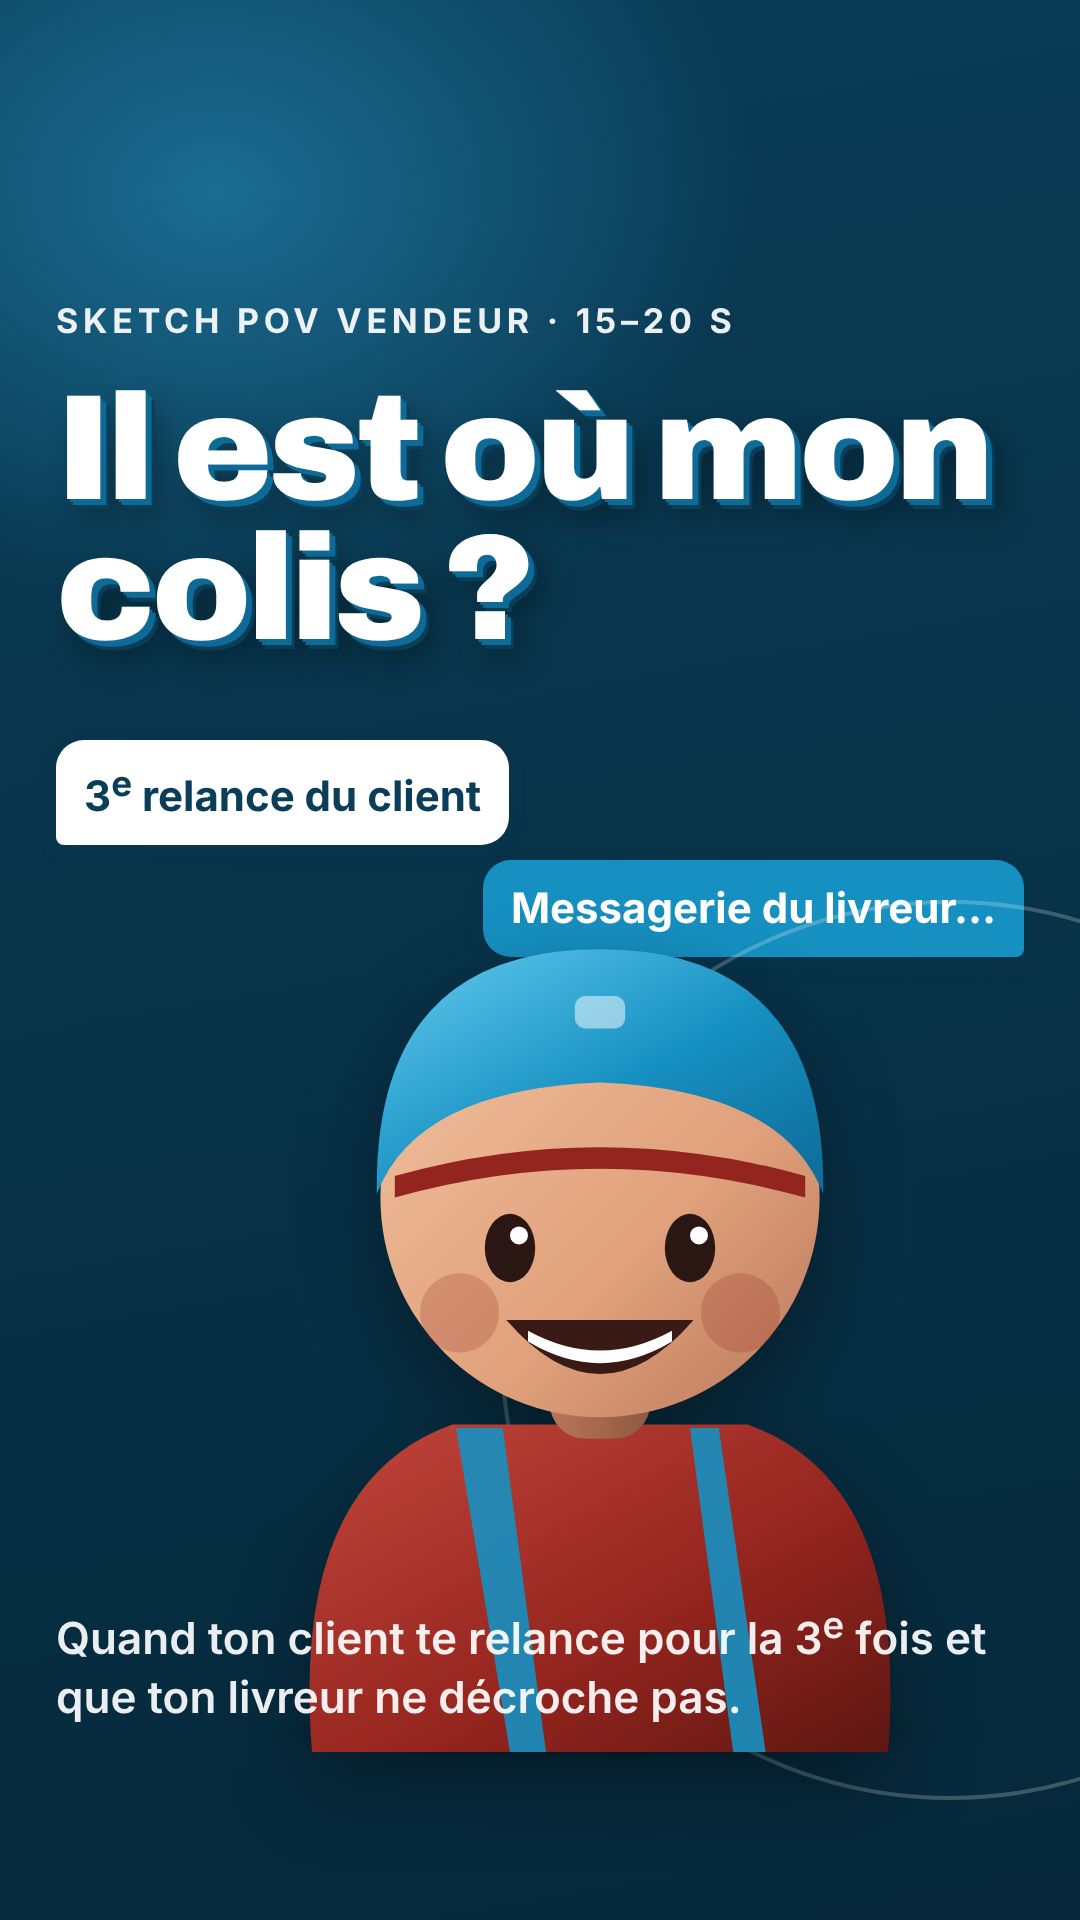
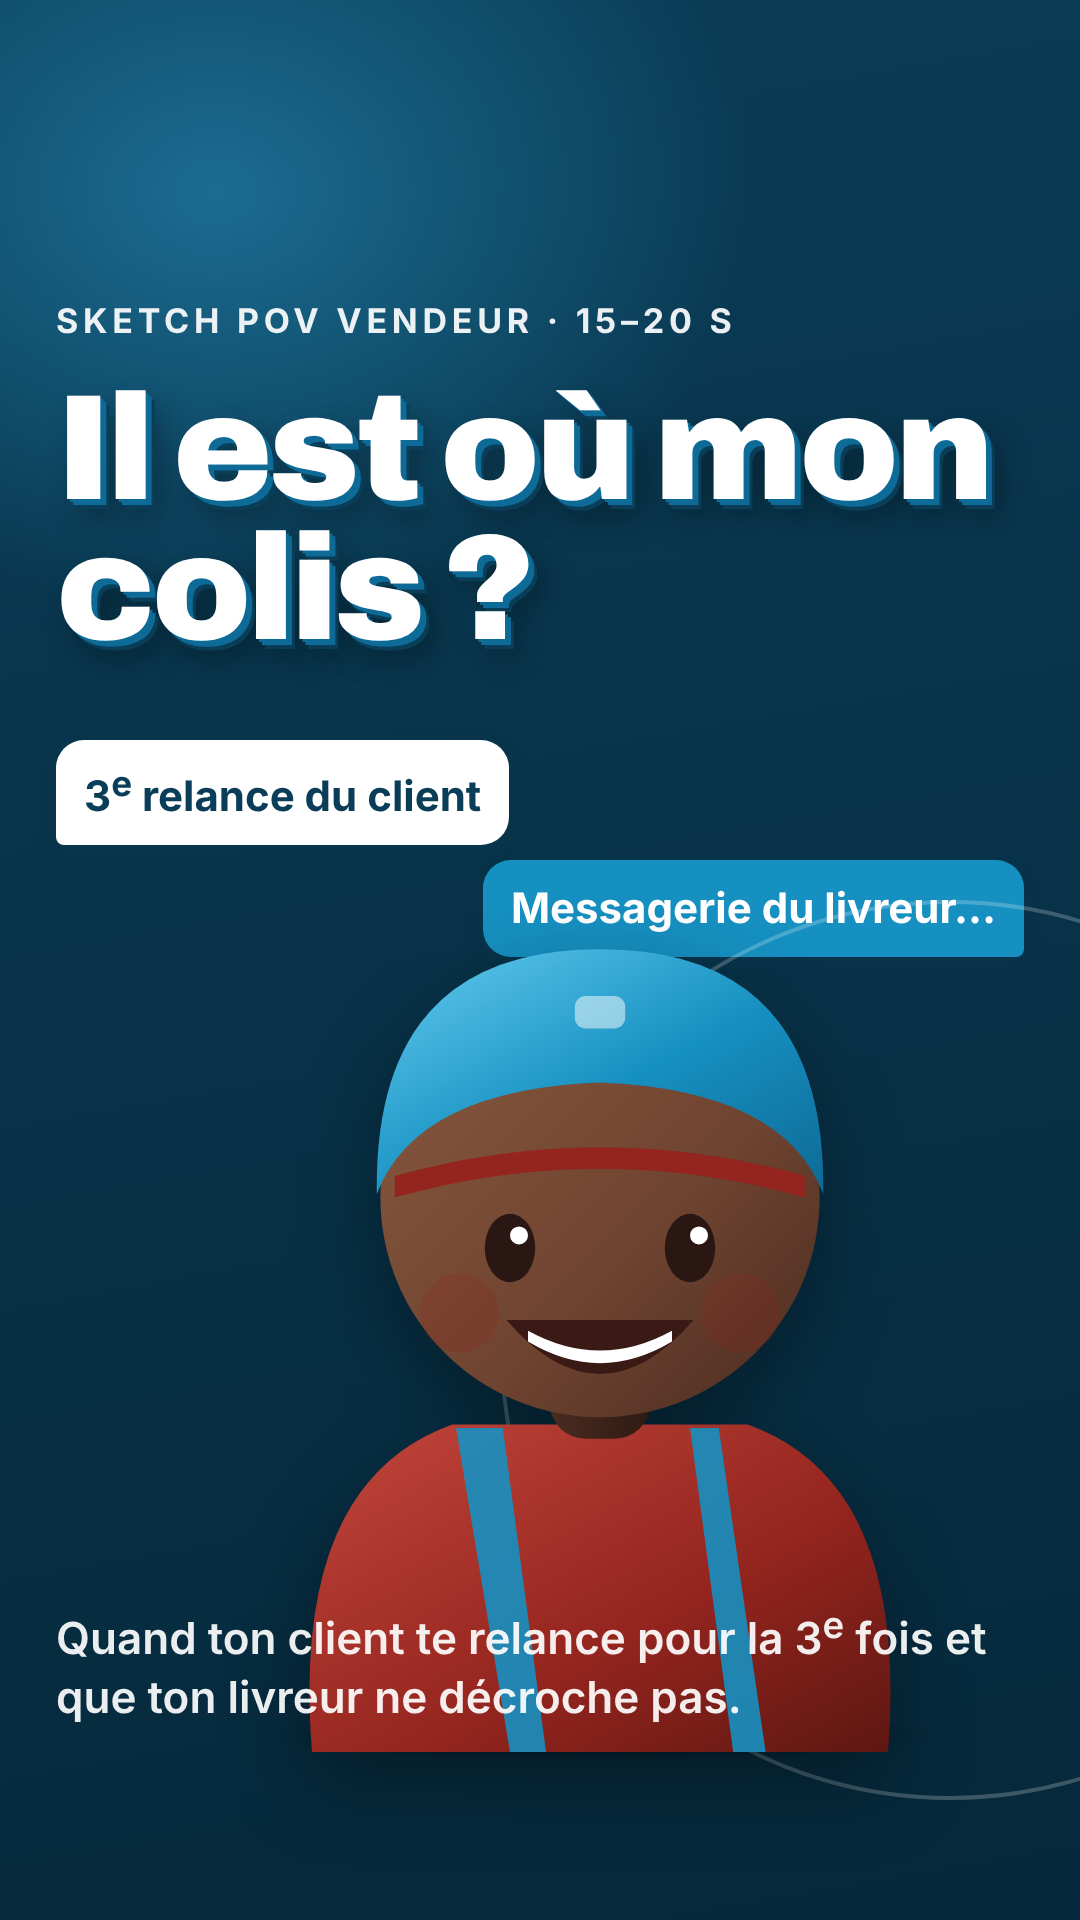
Use deep brown skin tones for illustrated riders
Brief requires the people depicted to remain Black: the illustrated
rider and hand now use deep brown skin tones. Visuals re-exported.

Claude-Session: https://claude.ai/code/session_01RXtv1MBkunuGbnBVHu5Xbr

Changed region(s): [[0.3361, 0.5625, 0.7639, 0.75]]

diff --git a/direction-artistique/campagne-s1/creas.html b/direction-artistique/campagne-s1/creas.html
@@ -76,8 +76,8 @@
     <linearGradient id="gBlue" x1="0" y1="0" x2="1" y2="1"><stop offset="0" stop-color="#63CBF0"/><stop offset=".55" stop-color="#1690C1"/><stop offset="1" stop-color="#0E6A96"/></linearGradient>
     <linearGradient id="gBlueD" x1="0" y1="0" x2="0" y2="1"><stop offset="0" stop-color="#1690C1"/><stop offset="1" stop-color="#095576"/></linearGradient>
     <linearGradient id="gRed" x1="0" y1="0" x2="1" y2="1"><stop offset="0" stop-color="#C2463B"/><stop offset=".6" stop-color="#93241E"/><stop offset="1" stop-color="#5E1712"/></linearGradient>
-    <linearGradient id="gSkin" x1="0" y1="0" x2="1" y2="1"><stop offset="0" stop-color="#F2C29E"/><stop offset=".6" stop-color="#E0A17C"/><stop offset="1" stop-color="#B9775A"/></linearGradient>
-    <linearGradient id="gSkinS" x1="0" y1="0" x2="1" y2="0"><stop offset="0" stop-color="#B9775A"/><stop offset="1" stop-color="#8E5840"/></linearGradient>
+    <linearGradient id="gSkin" x1="0" y1="0" x2="1" y2="1"><stop offset="0" stop-color="#8A5A40"/><stop offset=".6" stop-color="#6E4330"/><stop offset="1" stop-color="#4A2C20"/></linearGradient>
+    <linearGradient id="gSkinS" x1="0" y1="0" x2="1" y2="0"><stop offset="0" stop-color="#4A2C20"/><stop offset="1" stop-color="#2F1A12"/></linearGradient>
     <linearGradient id="gNuit" x1="0" y1="0" x2="0" y2="1"><stop offset="0" stop-color="#15506F"/><stop offset="1" stop-color="#0A3D57"/></linearGradient>
     <radialGradient id="gShadow"><stop offset="0" stop-color="#000" stop-opacity=".45"/><stop offset="1" stop-color="#000" stop-opacity="0"/></radialGradient>
   </defs>
@@ -147,8 +147,8 @@
     <rect x="92" y="250" width="124" height="120" rx="22" fill="url(#gSkinS)"/>
     <rect x="58" y="118" width="196" height="158" rx="62" fill="url(#gSkin)"/>
     <rect x="72" y="8" width="66" height="170" rx="33" fill="url(#gSkin)"/>
-    <rect x="88" y="28" width="30" height="36" rx="13" fill="#F6D7BE" opacity=".8"/>
-    <path d="M110 170 Q140 160 176 170 M110 206 Q140 196 186 206 M110 242 Q140 232 186 242" stroke="#9E6446" stroke-width="5" fill="none" stroke-linecap="round" opacity=".55"/>
+    <rect x="88" y="28" width="30" height="36" rx="13" fill="#5A3A2B" opacity=".8"/>
+    <path d="M110 170 Q140 160 176 170 M110 206 Q140 196 186 206 M110 242 Q140 232 186 242" stroke="#2F1A12" stroke-width="5" fill="none" stroke-linecap="round" opacity=".55"/>
   </symbol>
 
   <!-- Repère de carte -->
